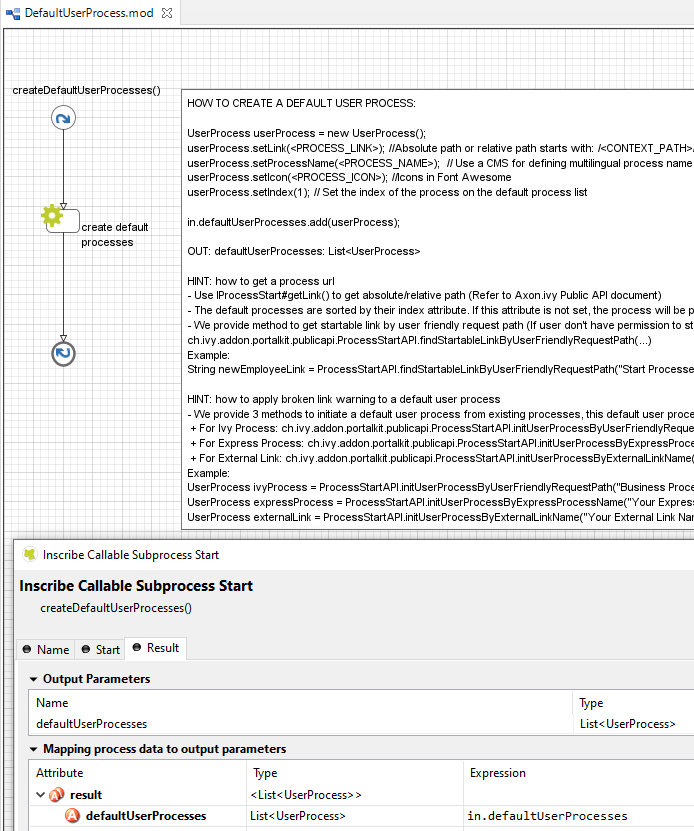
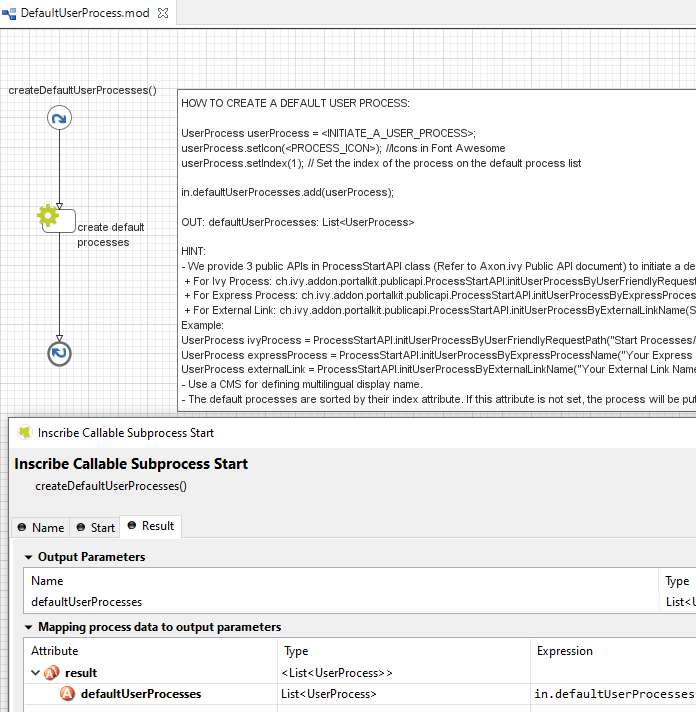
IVYPORTAL-11473: Store favorite processes without links of processes - Handle feedback: update code to not use deprecated fields, update document
Former-commit-id: 48c7ee8ac63fae3769bb458704be65a00509d3d3

Changed region(s): [[0.0, 0.0, 1.0, 1.0], [0.7565, 0.8034, 1.0, 0.927]]

diff --git a/AxonIvyPortal/PortalKit/src/ch/ivy/addon/portalkit/bean/CompactProcessWidgetBean.java b/AxonIvyPortal/PortalKit/src/ch/ivy/addon/portalkit/bean/CompactProcessWidgetBean.java
@@ -314,11 +314,11 @@ private static final long serialVersionUID = -5889375917550618261L;
       return;
     }
     
-    if (StringUtils.isNotBlank(userProcess.getWorkflowId())) {
+    if (userProcess.isExpressProcess() && StringUtils.isNotBlank(userProcess.getProcessId())) {
       ProcessStartCollector processStartCollector = new ProcessStartCollector();
       String expressStartLink = processStartCollector.findExpressWorkflowStartLink();
       if (StringUtils.isNotBlank(expressStartLink)) {
-        FacesContext.getCurrentInstance().getExternalContext().redirect(expressStartLink + "?workflowID=" + userProcess.getWorkflowId());
+        FacesContext.getCurrentInstance().getExternalContext().redirect(expressStartLink + "?workflowID=" + userProcess.getProcessId());
         return;
       }
     }
@@ -336,7 +336,7 @@ private static final long serialVersionUID = -5889375917550618261L;
   
   private boolean isExternalLinkUserProcess(UserProcess processToAdd) {
     return userProcesses.stream().anyMatch(userProcess -> userProcess.isExternalLink() && processToAdd.isExternalLink()
-        && StringUtils.equalsIgnoreCase(userProcess.getWorkflowId(), processToAdd.getWorkflowId()));
+        && StringUtils.equalsIgnoreCase(userProcess.getProcessId(), processToAdd.getProcessId()));
   }
 
   private boolean isDefaultUserProcess(UserProcess processToAdd) {
@@ -435,9 +435,8 @@ private static final long serialVersionUID = -5889375917550618261L;
                                       .collect(Collectors.toList());
     
     List<UserProcess> deletedExpressProcesses = processes.stream()
-        .filter(process ->  StringUtils.isNotBlank(process.getWorkflowId()) 
-            && !executableExpressProcessIds.contains(process.getWorkflowId())
-            && !process.isExternalLink())
+        .filter(process ->  process.isExpressProcess() && StringUtils.isNotBlank(process.getProcessId())
+            && !executableExpressProcessIds.contains(process.getProcessId()))
         .collect(Collectors.toList());
 
     userProcessService.deleteAll(deletedExpressProcesses);
@@ -453,7 +452,7 @@ private static final long serialVersionUID = -5889375917550618261L;
         .collect(Collectors.toList());
     
     List<UserProcess> deletedExternalLinks = processes.stream()
-        .filter(process ->  process.isExternalLink() && StringUtils.isNotBlank(process.getWorkflowId()) && !startableExternalLinkIds.contains(process.getWorkflowId().toString()))
+        .filter(process ->  process.isExternalLink() && StringUtils.isNotBlank(process.getProcessId()) && !startableExternalLinkIds.contains(process.getProcessId().toString()))
         .collect(Collectors.toList());
 
     userProcessService.deleteAll(deletedExternalLinks);

diff --git a/AxonIvyPortal/PortalKit/src/ch/ivy/addon/portalkit/persistence/domain/UserProcess.java b/AxonIvyPortal/PortalKit/src/ch/ivy/addon/portalkit/persistence/domain/UserProcess.java
@@ -8,7 +8,6 @@ import org.apache.commons.collections4.CollectionUtils;
 
 import com.fasterxml.jackson.annotation.JsonIgnore;
 
-import ch.ivy.addon.portalkit.bo.ExternalLink;
 import ch.ivy.addon.portalkit.dto.DisplayName;
 import ch.ivy.addon.portalkit.enums.ProcessType;
 import ch.ivy.addon.portalkit.util.Locales;
@@ -169,15 +168,19 @@ public class UserProcess extends BusinessEntity implements Cloneable {
   @Deprecated(since = "9.2", forRemoval = true)
   public void setWorkflowId(String workflowId) {
     this.workflowId = workflowId;
+    this.processId = workflowId;
   }
-  
-  /**
-   * @deprecated Use {@link UserProcess#getProcessType()} instead
-   * @return true if this object is used for {@link ExternalLink}
-   */
-  @Deprecated(since = "9.2", forRemoval = true)
+
   public boolean isExternalLink() {
-    return isExternalLink;
+    return ProcessType.EXTERNAL_LINK.equals(processType);
+  }
+
+  public boolean isIvyProcess() {
+    return ProcessType.IVY_PROCESS.equals(processType);
+  }
+
+  public boolean isExpressProcess() {
+    return ProcessType.EXPRESS_PROCESS.equals(processType);
   }
 
   /**
@@ -187,6 +190,7 @@ public class UserProcess extends BusinessEntity implements Cloneable {
   @Deprecated(since = "9.2", forRemoval = true)
   public void setExternalLink(boolean isExternalLink) {
     this.isExternalLink = isExternalLink;
+    this.processType = ProcessType.EXTERNAL_LINK;
   }
 
   public boolean isBrokenLink() {

diff --git a/AxonIvyPortal/PortalKit/src/ch/ivy/addon/portalkit/service/ExpressProcessService.java b/AxonIvyPortal/PortalKit/src/ch/ivy/addon/portalkit/service/ExpressProcessService.java
@@ -25,12 +25,8 @@ public class ExpressProcessService extends BusinessDataService<ExpressProcess> {
   }
 
   public ExpressProcess findReadyToExecuteProcessByName(String processName) {
-    Result<ExpressProcess> queryResult = repo().search(getType()).textField("processName").isEqualToIgnoringCase(processName).limit(LIMIT_20).execute();
-    long totalCount = queryResult.totalCount();
-    if(totalCount > LIMIT_20) {
-      queryResult = repo().search(getType()).textField("processName").isEqualToIgnoringCase(processName).limit(Math.toIntExact(totalCount)).execute();
-    }
-    return queryResult.getAll().stream().filter(ExpressProcess::isReadyToExecute).findFirst().orElse(null);
+    ExpressProcess process = repo().search(getType()).textField("processName").isEqualToIgnoringCase(processName).limit(LIMIT_1).execute().getFirst();
+    return process != null && process.isReadyToExecute() ? process : null;
   }
   
   public ExpressProcess findExpressProcessByName(String processName) {

diff --git a/AxonIvyPortal/PortalKit/src/ch/ivy/addon/portalkit/mapper/UserProcessMapper.java b/AxonIvyPortal/PortalKit/src/ch/ivy/addon/portalkit/mapper/UserProcessMapper.java
@@ -39,7 +39,6 @@ public class UserProcessMapper {
     userProcess.setProcessType(ProcessType.EXPRESS_PROCESS);
     userProcess.setProcessName(stripHtmlTags(expressProcess.getProcessName()));
     userProcess.setLink(startLink);
-    userProcess.setWorkflowId(expressProcess.getId());
     userProcess.setDescription(expressProcess.getProcessDescription());
     return userProcess;
   }
@@ -51,8 +50,6 @@ public class UserProcessMapper {
     userProcess.setProcessName(stripHtmlTags(externalLink.getName()));
     userProcess.setUserId(externalLink.getCreatorId());
     userProcess.setLink(externalLink.getLink());
-    userProcess.setExternalLink(true);
-    userProcess.setWorkflowId(externalLink.getId().toString());
     userProcess.setDescription(externalLink.getLink());
     return userProcess;
   }

diff --git a/AxonIvyPortal/PortalKit/src/ch/ivy/addon/portalkit/util/ProcessStartUtils.java b/AxonIvyPortal/PortalKit/src/ch/ivy/addon/portalkit/util/ProcessStartUtils.java
@@ -23,7 +23,7 @@ public class ProcessStartUtils {
 
   public static boolean isExpressProcessAdded(ExpressProcess expressProcess, List<UserProcess> userProcesses) {
     return userProcesses.stream()
-    .filter(process -> StringUtils.isNoneBlank(process.getWorkflowId()) && process.getWorkflowId().equals(expressProcess.getId()))
+    .filter(process -> process.isExpressProcess() && StringUtils.isNoneBlank(process.getProcessId()) && process.getProcessId().equals(expressProcess.getId()))
     .findFirst()
     .isPresent();
   }

diff --git a/AxonIvyPortal/PortalKit/src/ch/ivy/addon/portalkit/publicapi/ProcessStartAPI.java b/AxonIvyPortal/PortalKit/src/ch/ivy/addon/portalkit/publicapi/ProcessStartAPI.java
@@ -70,7 +70,7 @@ public final class ProcessStartAPI {
    */
   public static UserProcess initUserProcessByExternalLinkName(String externalLinkName, String displayName) {
     UserProcess userProcess = initUserProcess(findExternalLinkIdByExternalLinkName(externalLinkName), ProcessType.EXTERNAL_LINK, displayName);
-    userProcess.setExternalLink(true);
+    userProcess.setProcessType(ProcessType.EXTERNAL_LINK);
     return userProcess;
   }
 

diff --git a/AxonIvyPortal/PortalKit/src/ch/ivy/addon/portalkit/service/BusinessDataService.java b/AxonIvyPortal/PortalKit/src/ch/ivy/addon/portalkit/service/BusinessDataService.java
@@ -7,6 +7,7 @@ import ch.ivyteam.ivy.environment.Ivy;
 
 public abstract class BusinessDataService<T> {
   
+  public static final int LIMIT_1 = 1;
   public static final int LIMIT_10 = 10;
   public static final int LIMIT_20 = 20;
   public static final int LIMIT_100 = 100;

diff --git a/Documentation/portal-guide/source/portal-developer-guide/customization/default-user-process.rst b/Documentation/portal-guide/source/portal-developer-guide/customization/default-user-process.rst
@@ -24,17 +24,14 @@ list of user processes. Follow instruction to create default processes.
 
 
 .. tip::
-    - We provide the method to generate link from UserFriendlyRequestPath
-      in  ``ProcessStartAPI``  class: ``findStartableLinkByUserFriendlyRequestPath(String requestPath)`` . This method
-      will return startable link if user has permission to start the process, otherwise return emtpy string.
-
-    - To display process name with multilingual, define a **CMS** and set it for **UserProcess#setProcessName**
-
-    - To apply broken link warning to a default user process, we provide 3 methods in  ``ProcessStartAPI``  class to initiate a default user process from existing processes.
-      This default user process will store ``processId`` and ``processType`` that will be used to check if it is broken or not.
+    - We provide 3 public APIs in ``ProcessStartAPI`` class (Refer to :ref:`Axon.ivy Public API document <public-api>`) to initiate a default user process.
+      We recommended you to use them when you want to create user favorite process.
 
         + For Ivy Process: ``initUserProcessByUserFriendlyRequestPath(String friendlyRequestPath, String displayName)``
         + For Express Process: ``initUserProcessByExpressProcessName(String expressProcessName, String displayName)``
         + For External Link: ``initUserProcessByExternalLinkName(String externalLinkName, String displayName)``
+
+    - Use a **CMS** for defining multilingual display name.
+    - The default processes are sorted by their index attribute. If this attribute is not set, the process will be put at the bottom of the list.
 
 .. |default-user-processes| image:: images/default-user-process/default-user-processes.png
